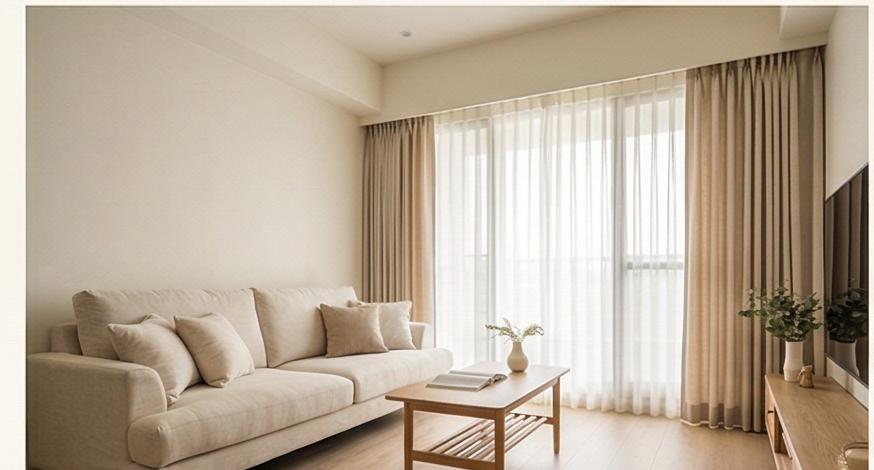
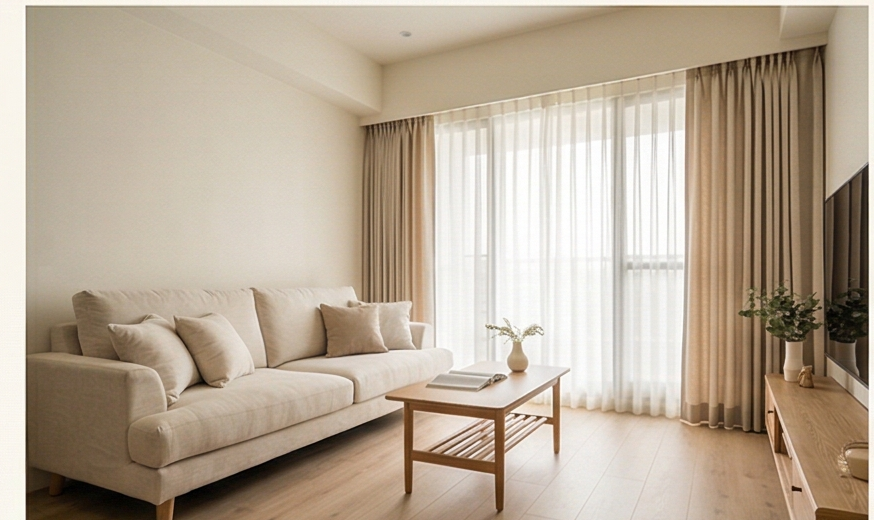
Keep more floor visible in project cards

diff --git a/app/page.tsx b/app/page.tsx
@@ -159,8 +159,8 @@ export default function HomePage() {
                   src={project.image}
                   alt={project.title}
                   width={874}
-                  height={470}
-                  className="aspect-[874/470] w-full object-cover"
+                  height={520}
+                  className="aspect-[874/520] w-full object-cover"
                 />
                 <div className="p-6">
                   <p className="text-sm uppercase tracking-[0.22em] text-clay">{project.category}</p>

diff --git a/app/projects/page.tsx b/app/projects/page.tsx
@@ -42,8 +42,8 @@ export default function ProjectsPage() {
                 src={project.image}
                 alt={project.title}
                 width={874}
-                height={470}
-                className="aspect-[874/470] w-full object-cover"
+                height={520}
+                className="aspect-[874/520] w-full object-cover"
               />
               <div className="p-6">
                 <p className="text-sm uppercase tracking-[0.22em] text-clay">
